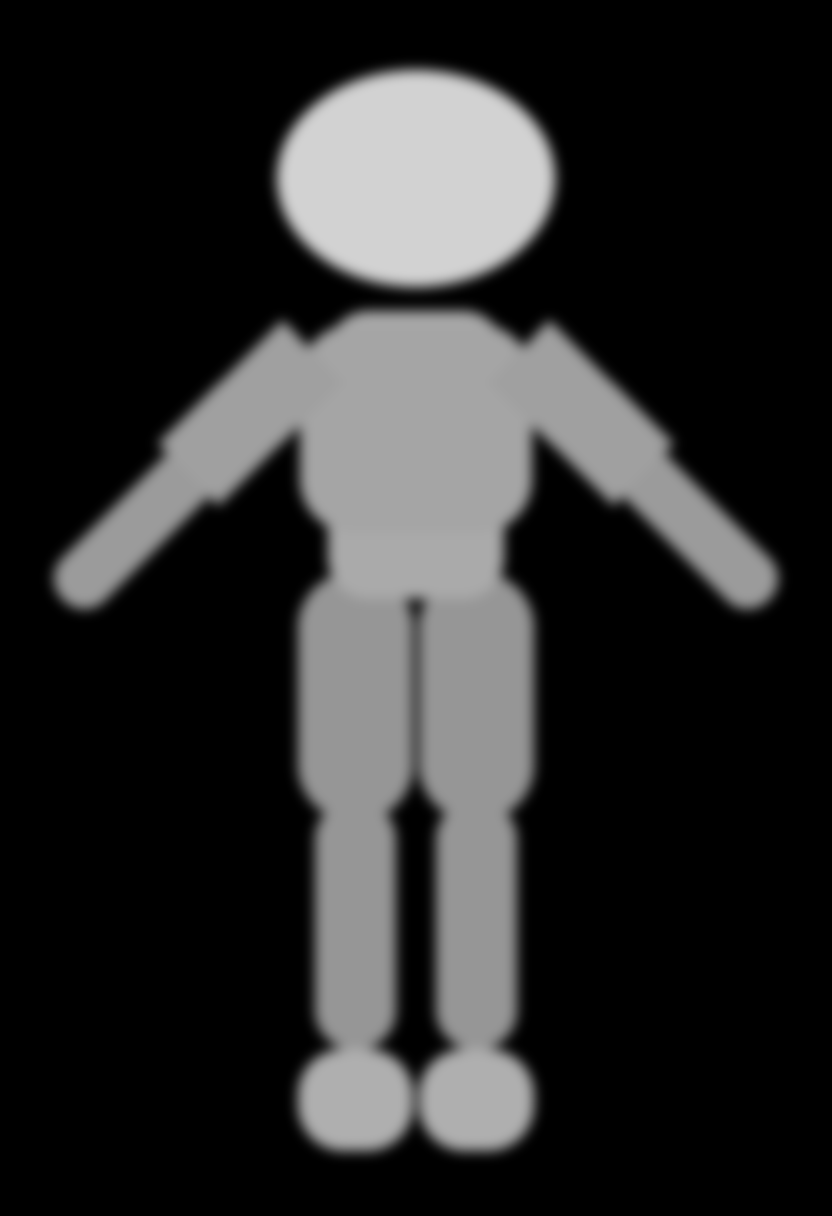
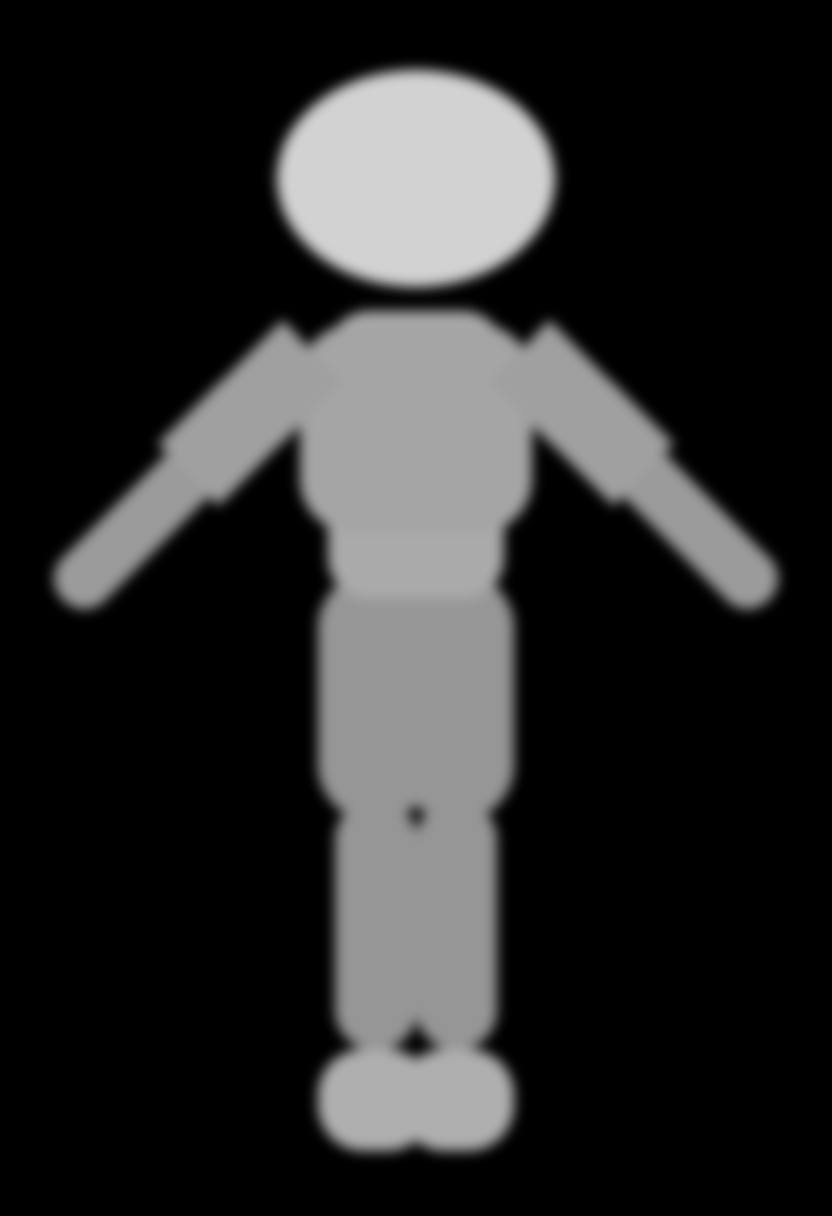
fix(ene): 골반이 어깨보다 넓었다 — 다리를 안쪽으로 모아 교정 (굵기는 유지)
사용자 관찰: "상체에 비해 하체, 특히 골반쪽이 많이 큰 느낌. 상체 비율에 맞출 수 있나."
맞는 지적이고 원인은 내 블록아웃이었다.

직전 커밋에서 다리 굵기를 17cm 로 올리면서 **중심 오프셋 ±9cm 를 그대로 뒀다.**
  골반 반폭 = 9 + 8.5 = 17.5cm  ->  골반 폭 35cm
  어깨 폭 30cm 보다 넓다. 스펙(2-2)상 허벅지 15cm 두 개면 붙여도 30cm 이므로
  **골반은 어깨를 넘으면 안 된다.**

교정 = 굵기를 줄이는 게 아니라 **안쪽으로 모은다**(오프셋 9 -> 6cm).
  골반 반폭 = 6 + 8.5 = 14.5cm  ->  골반 폭 29cm  (어깨와 같은 급)
이러면 복셀 하한(2칸)을 지키면서 실루엣만 고쳐진다. 프롬프트에도 (narrow hips:1.25) 추가하고
(thick thighs) 를 1.3 -> 1.15 로 완화.

검증: 허벅지 3.2~4.6칸 · 종아리 2.2~2.3칸 — 하한 2칸은 지켰다.
⚠ 다만 여유가 v10(2.7~2.8칸) 대비 줄었다. 복셀화 반올림이 아슬아슬해지므로, 최종 확정 시
   종아리가 2.5칸 이상 나오는 설정을 선호할 것(thick legs 가중치를 다시 올리거나 오프셋 7cm).

Changed region(s): [[0.3438, 0.4688, 0.6562, 0.9688]]

diff --git a/Docs/Handoff/PlayerChar_Arcade/control/make_depth.py b/Docs/Handoff/PlayerChar_Arcade/control/make_depth.py
@@ -35,7 +35,7 @@ if SIDE:
 
 # legs (leggings) - thin, they are the part that must NOT dominate
 lw = cm(11) / 2
-LEG_XS = [0] if SIDE else [-cm(9), cm(9)]
+LEG_XS = [0] if SIDE else [-cm(6), cm(6)]   # pull legs inward: hips must not exceed shoulders
 # taper: thigh 15cm -> calf 11cm. The model drew 6.5/5.8cm from an 11cm capsule,
 # so the blockout has to overshoot the spec, not merely match it.
 TH, CA = cm(17) / 2, cm(12) / 2
